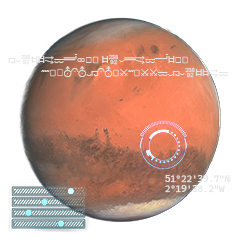
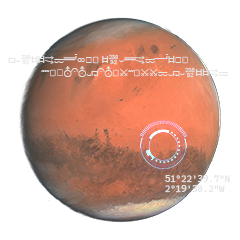
Aesthetic improvements

Changed region(s): [[0.0292, 0.7583, 0.3792, 0.9625]]

diff --git a/mars/templates/index.html b/mars/templates/index.html
@@ -32,9 +32,11 @@
         <div class="columns">
             <div class="column is-narrow">
 
+                <h2 class="heading has-text-centered">Marker Positions</h2>
+
                 <!-- MARKERS TABLE -->
                 <div id="markers_container">
-                    <table class="table" style="width: 320px;">
+                    <table class="table has-text-centered" style="width: 320px;">
                         <thead>
                             <tr>
                                 <th>X</th>
@@ -218,23 +220,79 @@
                         </script>
                     </figure>
 
-                    <img src="static/mars-small.png" style="position: absolute;	bottom: -70px; right: -100px;">
+                    <img src="static/mars-small.png" style="position: absolute; top: -70px; right: -100px;">
+                    <img src="static/live.png" style="position: absolute; top: 25px; left: 25px;">
+
+                    <!-- MISSION TIMER -->
+                    <p id="timer" style="position: absolute; top: 30px; left: 100px;"></p>
+
+                    <script>
+                        // Set the date we're counting down to
+                        var countDownDate = new Date("Jul 5, 2020 15:37:25").getTime();
+
+                        // Update the count down every 1 second
+                        var x = setInterval(function () {
+
+                            // Get today's date and time
+                            var now = new Date().getTime();
+
+                            // Find the distance between now and the count down date
+                            var distance = countDownDate - now;
+
+                            // Time calculations for days, hours, minutes and seconds
+                            var days = Math.floor(distance / (1000 * 60 * 60 * 24));
+                            var hours = Math.floor((distance % (1000 * 60 * 60 * 24)) / (1000 * 60 * 60));
+                            var minutes = Math.floor((distance % (1000 * 60 * 60)) / (1000 * 60));
+                            var seconds = Math.floor((distance % (1000 * 60)) / 1000);
+
+                            // Output the result in an element with id="demo"
+                            document.getElementById("timer").innerHTML = "T + " + -days + "d " + (-hours - 1) + "h "
+                                + (-minutes - 1) + "m " + (-seconds - 1) + "s ";
+
+                        }, 1000);
+                    </script>
                 </div>
 
                 <!-- CONTROLS -->
                 <div class="container">
-                    <div class="buttons is-centered">
-                        <button class="button" onclick="socket.emit('connect_camera')">Connect Camera</button>
-                        <button class="button" onclick="reload_video_feed()">Reload Stream</button>
-                        <button class="button" onclick="socket.emit('start_engineer')">Start Engineer Tasks</button>
-                        <button class="button" onclick="socket.emit('stop_engineer')">Stop Engineer Tasks</button>
-                        <button class="button" onclick="socket.emit('increment_engineer_task')">Next Task</button>
-                        <button class="button" onclick="socket.emit('decrement_engineer_task')">Prev Task</button>
-                        <!-- <button class="button" onclick="socket.emit('start_ui_logic')">Connect UI Logic</button> -->
+                    <div class="columns">
+                        <div class="column">
+                            <h2 class="heading has-text-centered">Camera Controls</h2>
+                            <div class="buttons is-centered">
+                                <button class="button" onclick="socket.emit('connect_camera')">Connect Camera</button>
+                                <button class="button" onclick="reload_video_feed()">Reload Stream</button>
+                                <!-- <button class="button" onclick="socket.emit('start_ui_logic')">Connect UI Logic</button> -->
+                            </div>
+                        </div>
+                        <div class="column">
+                            <h2 class="heading has-text-centered">Engineer Controls</h2>
+                            <div class="buttons is-centered has-addons">
+                                <button class="button" disabled>Engineer</button>
+                                <button class="button" onclick="socket.emit('start_engineer')">Start</button>
+                                <button class="button" onclick="socket.emit('stop_engineer')">Stop</button>
+                                <button class="button" onclick="socket.emit('increment_engineer_task')">Next</button>
+                                <button class="button" onclick="socket.emit('decrement_engineer_task')">Prev</button>
+                            </div>
+                        </div>
+                        <div class="column">
+                            <h2 class="heading has-text-centered">
+                                Ả̷̳̞͈̻̏l̴̢̡̛̹̮͕̳̜̙̝̭͈̫̟̣̦̏̇͆̀̑̐͗̔̎̆̿̃̕͝i̷̡̛͓̼̙͍͓̯̪̮͆̂͒ḙ̷̀̇̆̐͂̐̑͆̃̄̂͑̅n̸͇͂̆
+                                ̷̙̤͈̠̗͚͍̬̠̈́̐͒̀͗͝Ċ̶̢̞̮͓̫́̃̀͑̀̊͒o̶̢̬̪̖͖̘̲͕̺̺͚͊́̈͌̈̌̆̇͛͒̍̇͘͜͝n̶̛̤͙͂́̍́̋̊̔̓͗́̒̾͒t̸̯̬̄ŗ̸̪̹̳̞̮̯̟͇̟̮̘̫̳͐͐̕ͅo̸̱̬̗͒̉̐̽̆̔̔̎̽l̶͉̦̗̳̭̯̝͋̆͋͐̑̅̔̔̒̏̒̒̉͘͝ͅş̵̛͎͚͚͉̮͉̑̊́͛̿̑̑͐
+                            </h2>
+                            <div class="buttons is-centered has-addons">
+                                <button class="button" disabled>Alien</button>
+                                <button class="button" onclick="socket.emit('start_alien')">Start</button>
+                                <button class="button" onclick="socket.emit('stop_alien')">Stop</button>
+                            </div>
+                        </div>
                     </div>
 
+
+
                     <div class="container has-text-centered">
-                        <p id="logic"></p>
+                        <p id="logic">
+                            {"engineer": {"current_task": 0, "current_marker": 2}, "alien": {"current_marker": 9}}
+                        </p>
 
                         <script>
                             socket.on("update_logic", function (data) {
